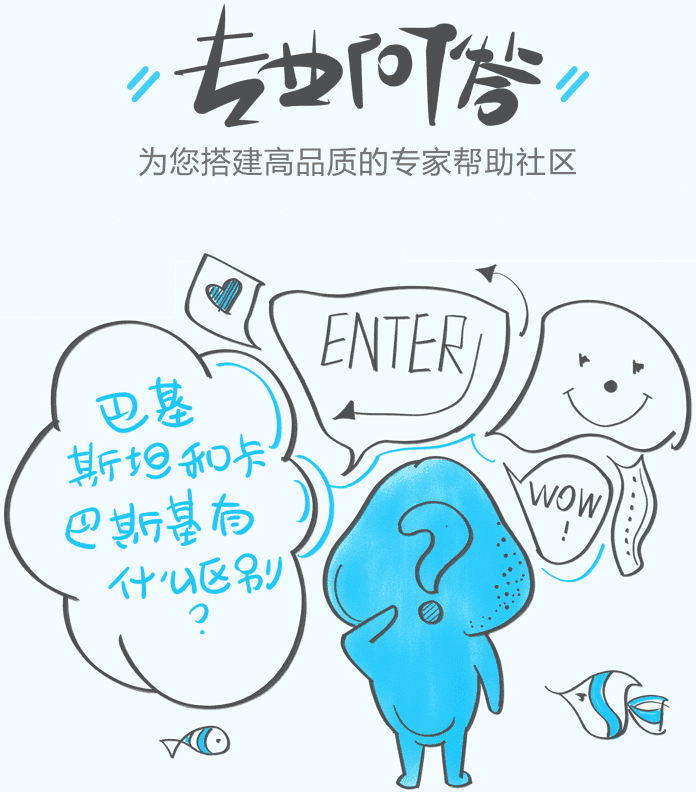
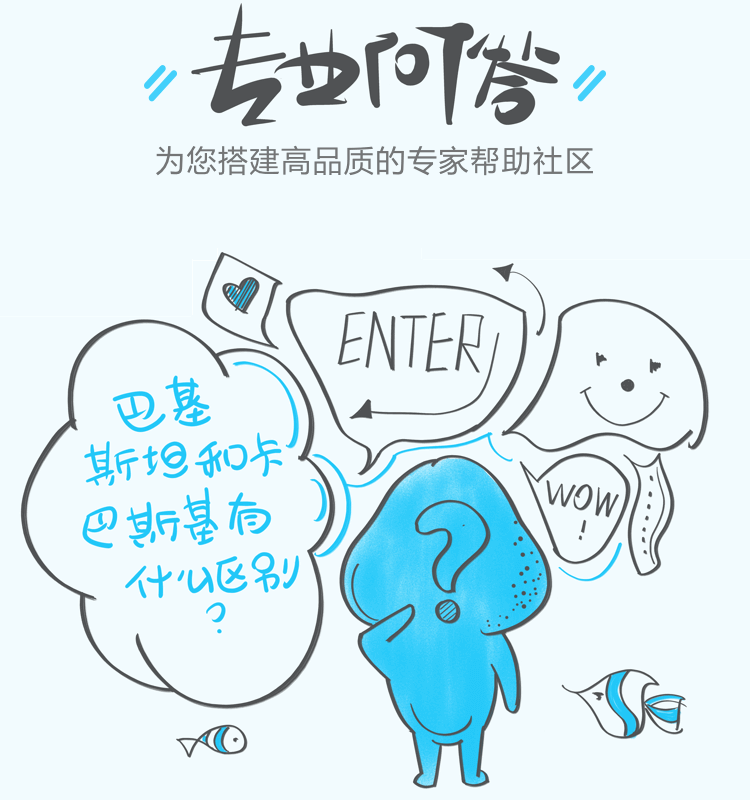
引导图片替换

diff --git a/asset/views/Guide.vue b/asset/views/Guide.vue
@@ -277,7 +277,7 @@
   .guide{
     background-repeat: no-repeat;
     background-position: center 24%;
-    background-size:90%;
+    background-size:contain;
     background-color: #f2fbfe;
   }
 
@@ -286,7 +286,7 @@
   }
 
   .guide-1{
-    background-image:url(../statics/images/guide_2.png);
+    background-image:url(../statics/images/guide_02.png);
     background-color: #646668;
   }
 
